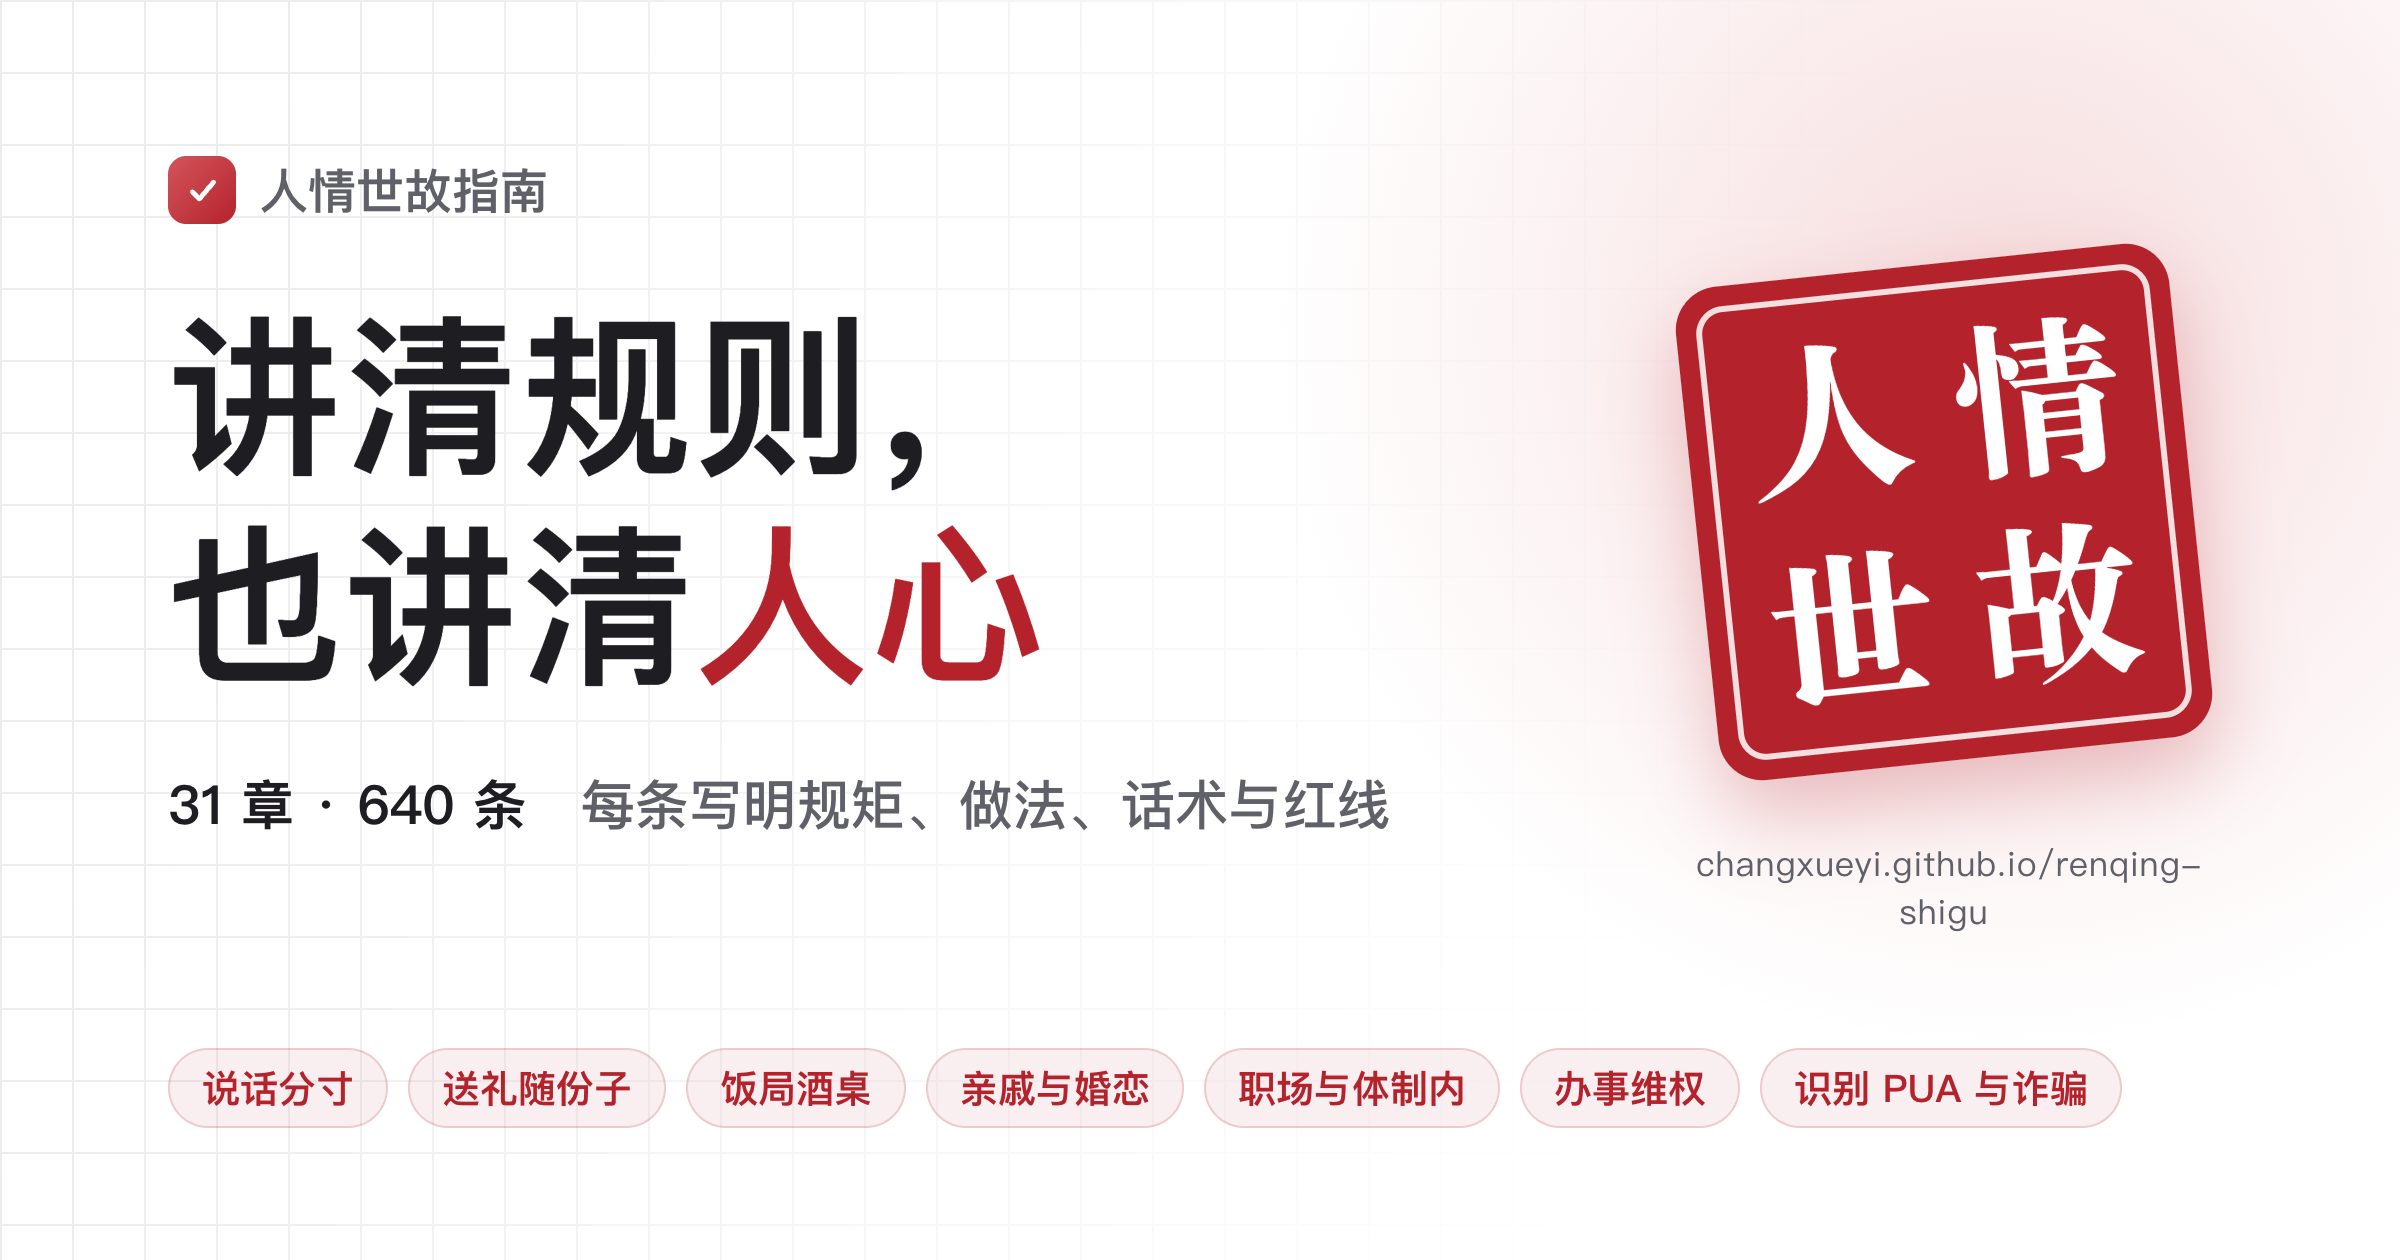
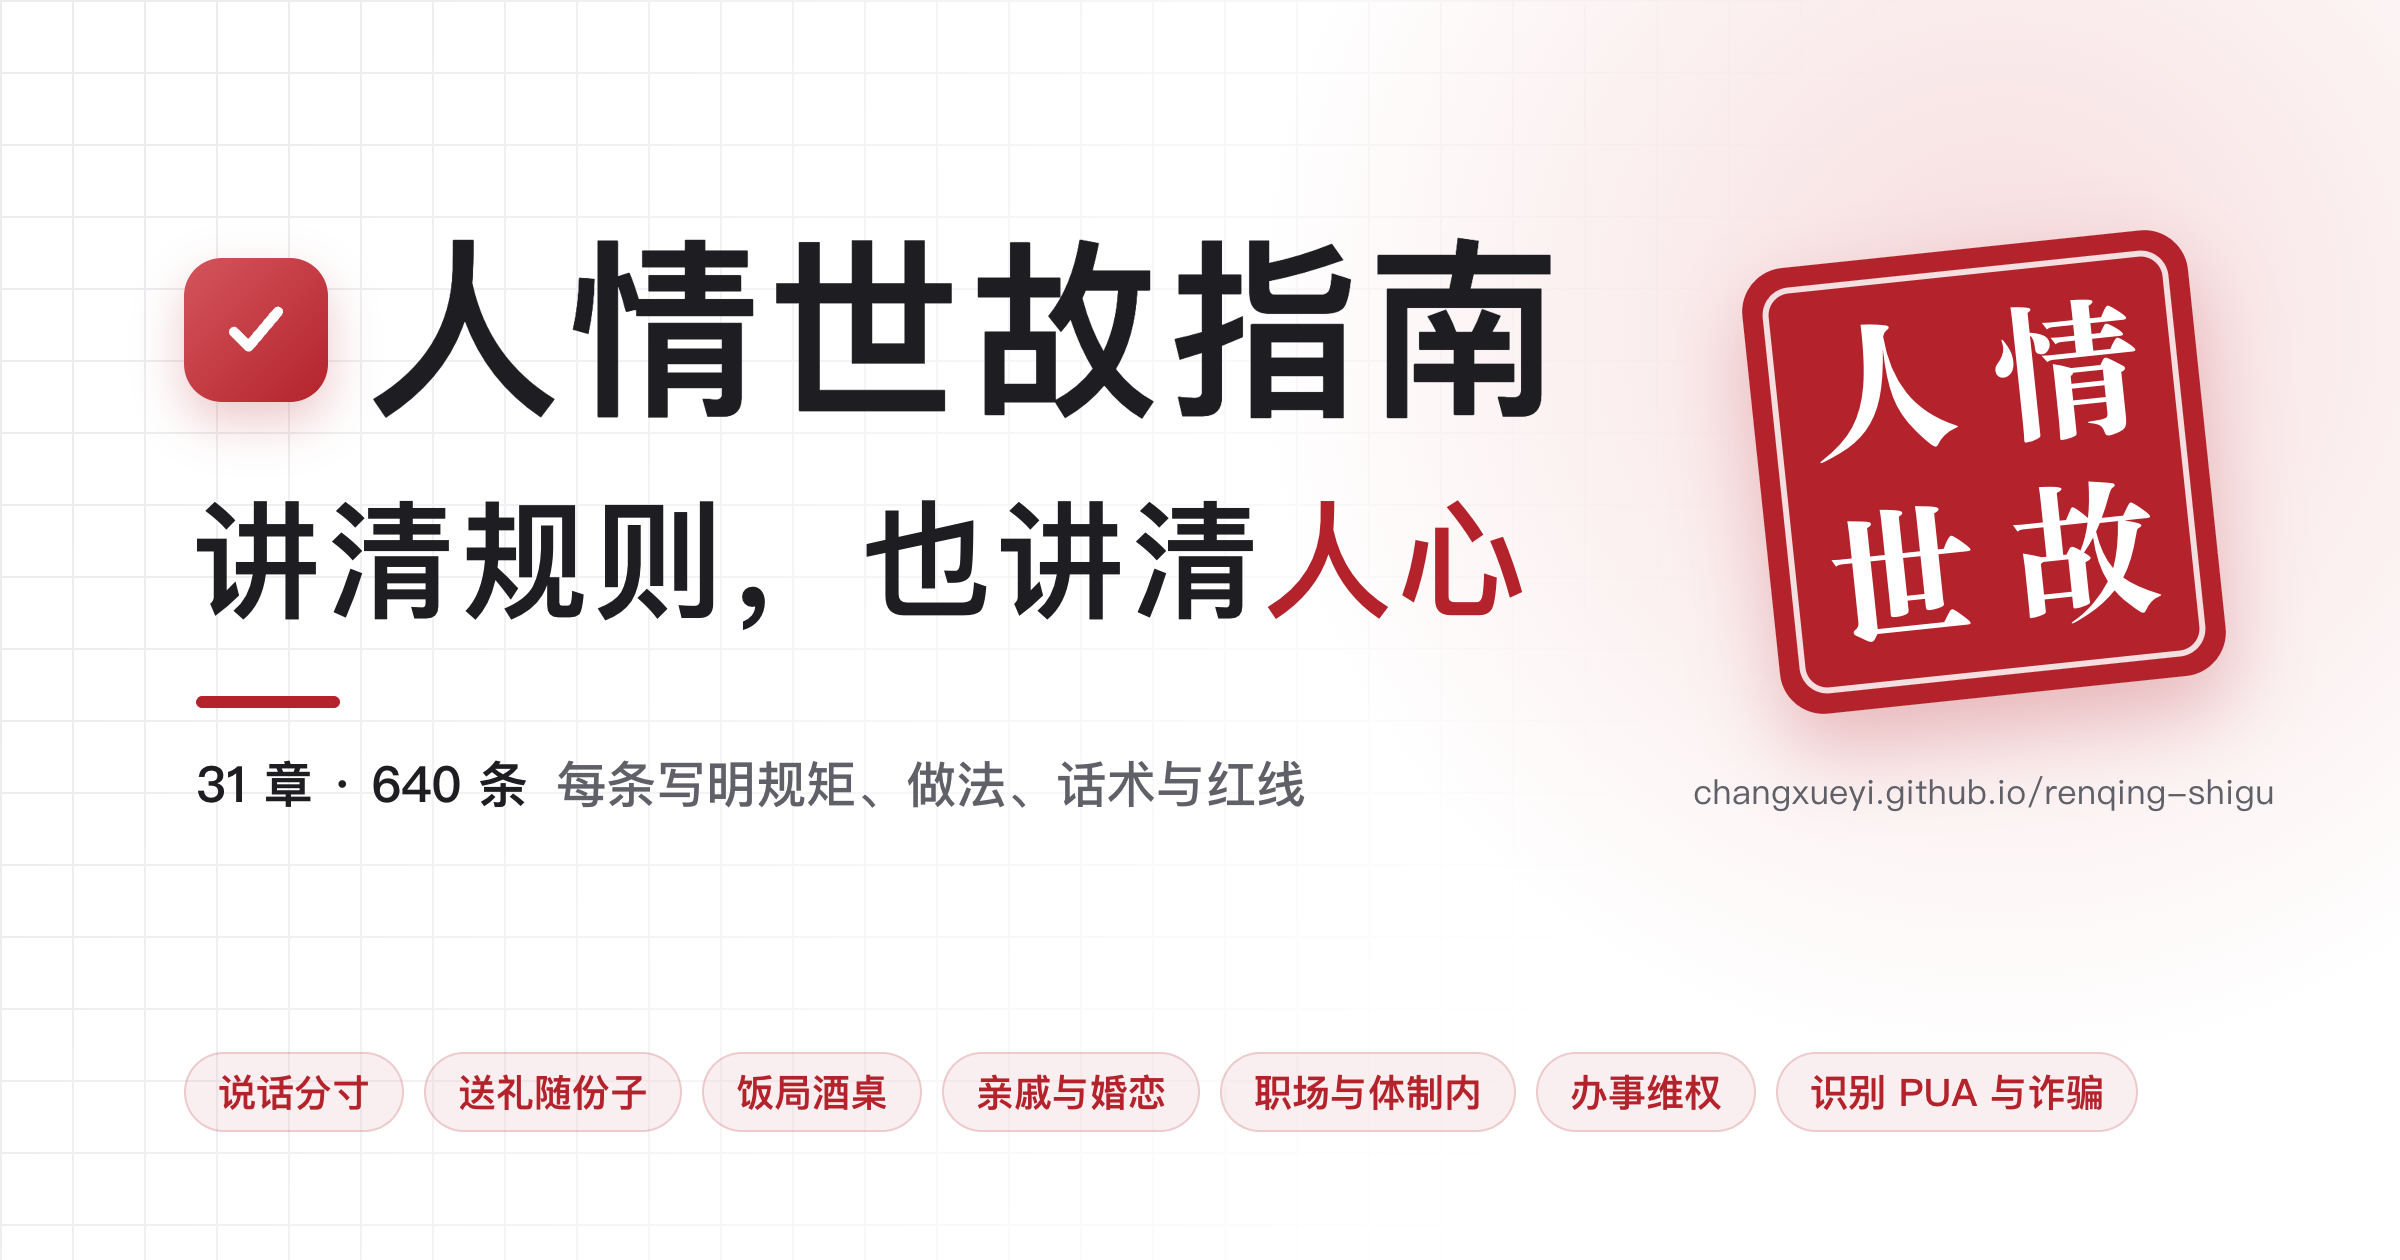
封面图改版：第一行书名、第二行口号，人心标红

diff --git a/tools/cover.html b/tools/cover.html
@@ -1,0 +1,45 @@
+<!doctype html>
+<html lang="zh-CN">
+<head>
+<meta charset="utf-8">
+<title>人情世故指南 · 封面</title>
+<!-- 仓库根目录 og.png 的源文件：用浏览器按 1200×630、2 倍像素截取 #card 即可得到。README 封面和网页分享图都用这张 -->
+<style>
+  :root{--red:#b4232c;--red-2:#d4555c;--ink:#1d1d22;--gray:#5f6068;--line:#ececee}
+  *{box-sizing:border-box}
+  html,body{margin:0;padding:0;background:#fff}
+  body{font-family:"PingFang SC","Hiragino Sans GB","Microsoft YaHei",sans-serif;color:var(--ink);-webkit-font-smoothing:antialiased}
+  .card{position:relative;width:1200px;height:630px;overflow:hidden;background:#fff}
+  /* 浅网格从左上往右下淡出，右上角一团淡红光 */
+  .card::before{content:"";position:absolute;inset:0;background-image:linear-gradient(var(--line) 1px,transparent 1px),linear-gradient(90deg,var(--line) 1px,transparent 1px);background-size:36px 36px;-webkit-mask-image:linear-gradient(110deg,#000 8%,transparent 68%)}
+  .card::after{content:"";position:absolute;right:-200px;top:-240px;width:800px;height:800px;border-radius:50%;background:radial-gradient(circle,rgba(212,85,92,.20),rgba(212,85,92,0) 66%)}
+  .main{position:absolute;left:92px;top:112px;z-index:2}
+  .title{display:flex;align-items:center;gap:20px;margin:0;font-size:96px;line-height:1.1;font-weight:800;letter-spacing:4px;white-space:nowrap}
+  .title .logo{flex:none;width:72px;height:72px;border-radius:19px;background:linear-gradient(135deg,var(--red-2),var(--red));display:grid;place-items:center;box-shadow:0 10px 24px rgba(180,35,44,.25)}
+  .title .logo svg{width:44px;height:44px}
+  .slogan{margin:24px 0 0 4px;font-size:64px;line-height:1.2;font-weight:700;letter-spacing:3px;white-space:nowrap}
+  .slogan em{font-style:normal;color:var(--red)}
+  .bar{width:72px;height:6px;margin:30px 0 0 6px;border-radius:3px;background:var(--red)}
+  .sub{margin:20px 0 0 6px;font-size:25px;line-height:1.5;color:var(--gray);font-weight:500;white-space:nowrap}
+  .sub b{color:var(--ink);font-weight:700;margin-right:14px}
+  .seal{position:absolute;right:96px;top:124px;width:224px;height:224px;z-index:2;transform:rotate(-6deg);border-radius:22px;background:var(--red);box-shadow:0 18px 40px rgba(180,35,44,.28);display:grid;grid-template-columns:1fr 1fr;grid-template-rows:1fr 1fr;padding:20px;align-items:center;justify-items:center;font-family:"Songti SC","STSong",serif;font-weight:900;color:#fff;font-size:74px;line-height:1}
+  .seal::after{content:"";position:absolute;inset:10px;border:3px solid rgba(255,255,255,.85);border-radius:14px}
+  .url{position:absolute;right:48px;top:384px;width:320px;text-align:center;white-space:nowrap;z-index:2;font-size:17px;color:var(--gray);letter-spacing:.3px}
+  .chips{position:absolute;left:92px;right:92px;bottom:64px;display:flex;flex-wrap:nowrap;gap:10px;z-index:2}
+  .chips span{font-size:19px;font-weight:600;color:var(--red);background:rgba(180,35,44,.07);border:1px solid rgba(180,35,44,.18);border-radius:999px;padding:6px 16px;white-space:nowrap}
+</style>
+</head>
+<body>
+<div class="card" id="card">
+  <div class="main">
+    <h1 class="title"><span class="logo" aria-hidden="true"><svg viewBox="0 0 24 24"><path d="M6 12.5l4 4 8-9.5" fill="none" stroke="#fff" stroke-width="2.8" stroke-linecap="round" stroke-linejoin="round"/></svg></span>人情世故指南</h1>
+    <div class="slogan">讲清规则，也讲清<em>人心</em></div>
+    <div class="bar"></div>
+    <div class="sub"><b>31 章 · 640 条</b>每条写明规矩、做法、话术与红线</div>
+  </div>
+  <div class="seal" aria-hidden="true"><span>人</span><span>情</span><span>世</span><span>故</span></div>
+  <div class="url">changxueyi.github.io/renqing-shigu</div>
+  <div class="chips"><span>说话分寸</span><span>送礼随份子</span><span>饭局酒桌</span><span>亲戚与婚恋</span><span>职场与体制内</span><span>办事维权</span><span>识别 PUA 与诈骗</span></div>
+</div>
+</body>
+</html>
